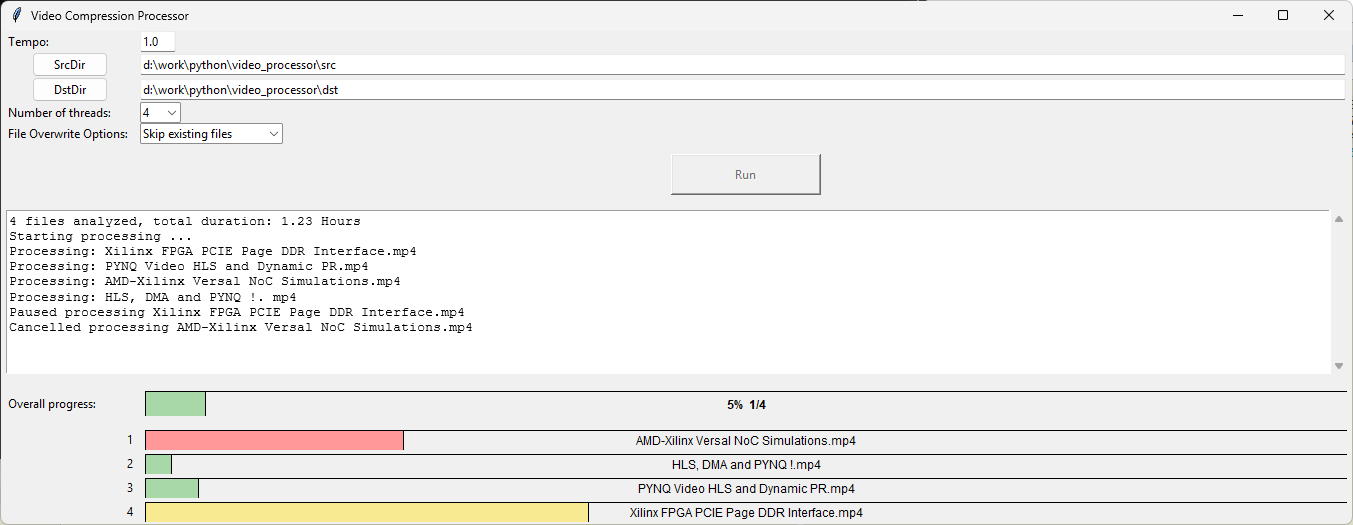
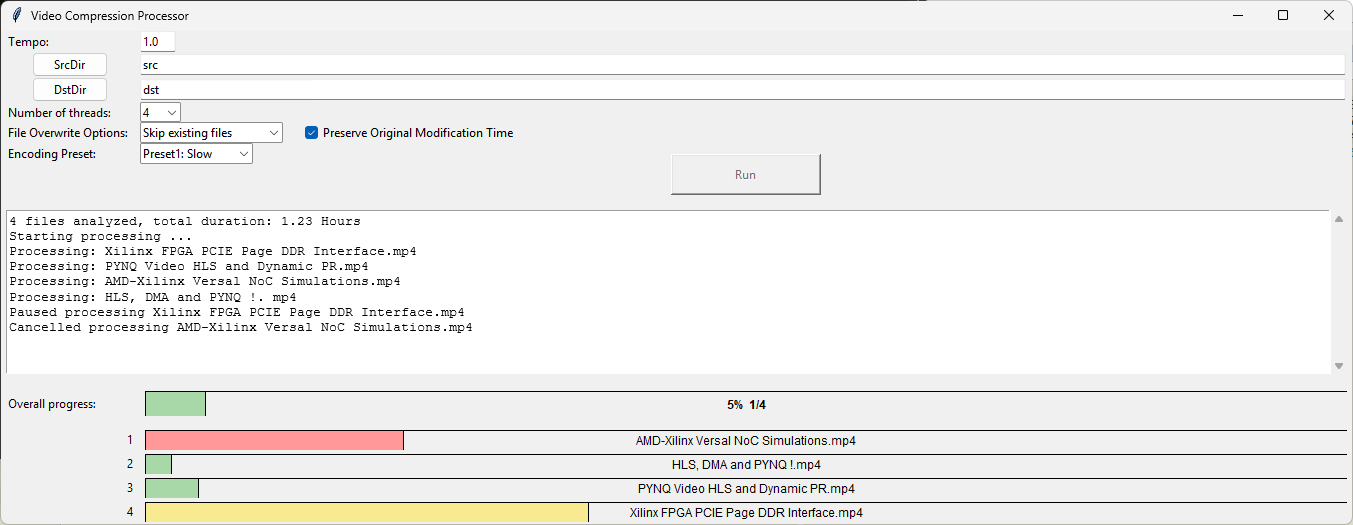
Updated Readme.md to display recent changes ("Preserve Original Modification Time" option, relative paths)

Changed region(s): [[0.0, 0.2133, 0.3725, 0.3048], [0.0931, 0.0914, 0.2483, 0.1829]]

diff --git a/video_processor.py b/video_processor.py
@@ -358,7 +358,7 @@ class VideoProcessor:
     self.n_threads_combo.pack(side=tk.LEFT)
 
     # File options in row 4
-    ttk.Label(self.master, text="File Options:").grid(row=4, column=0, sticky=tk.W, padx=5)
+    ttk.Label(self.master, text="File Overwrite Options:").grid(row=4, column=0, sticky=tk.W, padx=5)
     file_opts_frame = ttk.Frame(self.master)
     file_opts_frame.grid(row=4, column=1, sticky=tk.W)
 

diff --git a/Readme.md b/Readme.md
@@ -32,8 +32,10 @@ A Python GUI application for video files batch processing, with compression and 
 
 ## Configuration
 
-The application saves its configuration in `video_processor_config.ini` file, which includes:
-- FFmpeg path
+The application saves its configuration in `video_processor_config.ini`. This file is always resolved relative to the directory where the script is located.
+
+The configuration includes:
+- **FFmpeg path**: This must be an **absolute path** to the FFmpeg executable.
 - Last used input (source) and output (destination) directories
 - Tempo value
 - Number of processing threads
@@ -41,17 +43,18 @@ The application saves its configuration in `video_processor_config.ini` file, wh
 
 ## Usage
 
-1. Set the FFmpeg path (first time only)
-2. Select source directory containing video files
-3. Select destination directory for processed files
-4. Adjust tempo value (0.1-2.0, where 1.0 is normal speed)
-5. Choose number of processing threads (1-DFLT_N_THREADS_MAX)
-6. Select file overwrite behavior:
+1. **Set FFmpeg path**: Provide the absolute path to your FFmpeg executable.
+2. **Select Source/Destination Directories**:
+   - Both **absolute** and **relative paths** are supported for source and destination directories.
+   - Relative paths are resolved starting from the directory where the script itself is located.
+3. Adjust tempo value (0.1-2.0, where 1.0 is normal speed)
+4. Choose number of processing threads (1-DFLT_N_THREADS_MAX)
+5. Select file overwrite behavior:
    - Skip existing files
    - Overwrite existing files
    - Rename existing files
-7. Select Encoding Preset (Slow, Fast, or Custom)
-8. Click "Run" to start processing
+6. Select Encoding Preset (Slow, Fast, or Custom)
+7. Click "Run" to start processing
 
 ## Interaction
 
